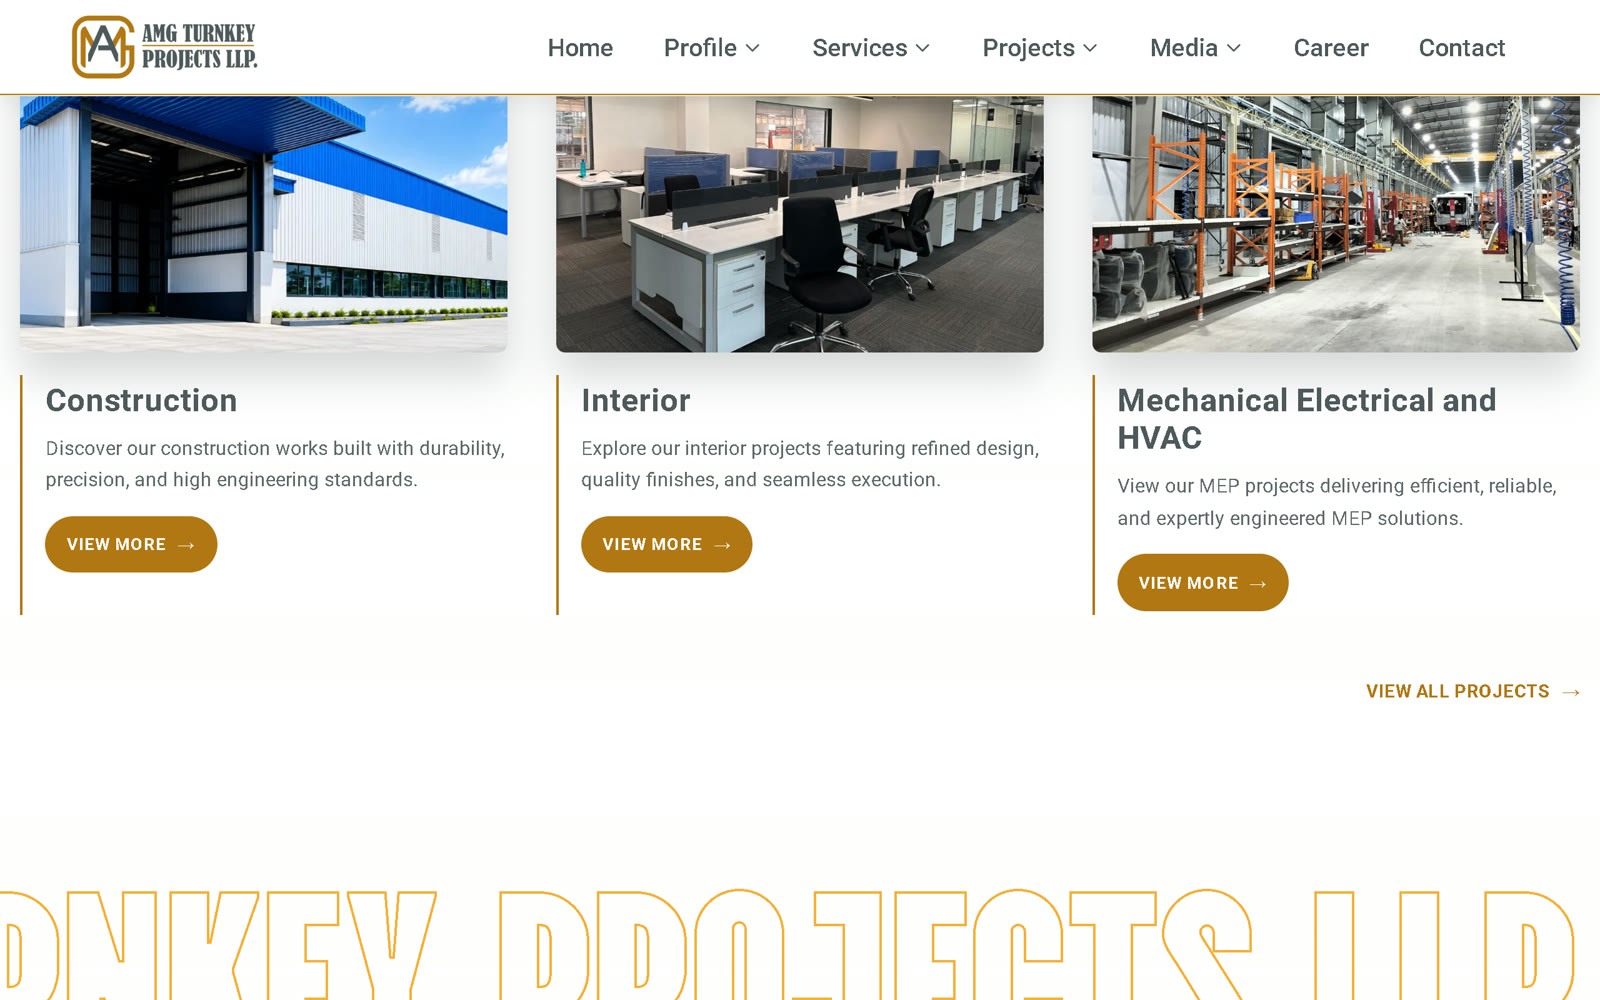
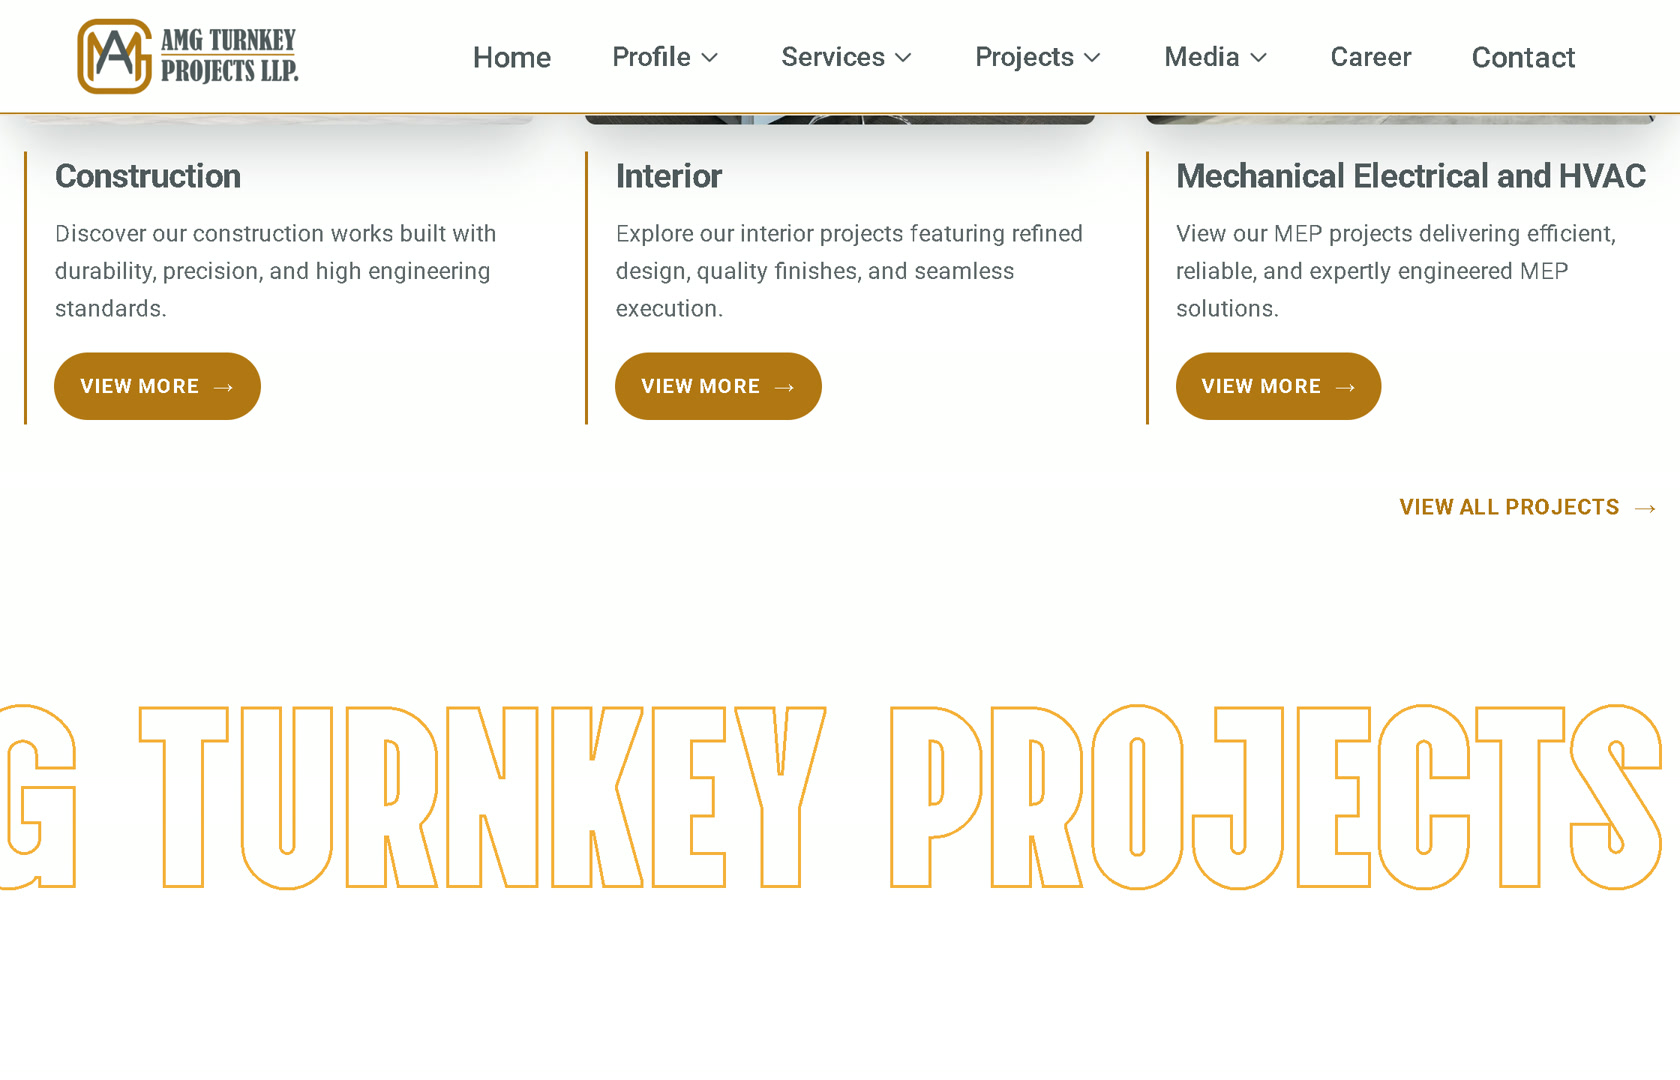
Make the site stills actually legible
The softness was not filtering and not source resolution. It was that each
still holds a whole page, and fitting both panels side by side had shrunk the
big one to 483 CSS px, so a 1280px website was being shown at about 38% of its
natural size. Nothing sampled at that reduction looks sharp.

Two changes, both about how much of the page each pixel has to carry. The
camera is solved from the BIG panel so it holds 62% of the frame whatever the
window is, which takes it from 483 to 674 CSS px; the small panel keeps its
place beside it with a guard so it never runs off the edge. And the stills are
captured at 1120 CSS rather than 1280, so there is less page to fit in the
same panel, and delivered at 1680 at a higher JPEG quality.

Together that takes the site from roughly 38% of natural size to about 61%.
Body copy on the Desi Totes hero is now readable in the panel, which it was
not before.

Panel geometry follows the new 1680x1080 stills, or the images would stretch.
Mipmapping and anisotropy stay on; they were not the cause but they are still
correct for a minified texture.

145 fps, zero frames over 32ms, assets 3.0 MB. Both panels still independently
clickable and no dead scroll at desktop, phone or reduced motion.

diff --git a/vitrine.js b/vitrine.js
@@ -67,22 +67,29 @@
   camera.position.set(0, 0, 8);
 
   const PANEL_W = 3.15;
-  const PANEL_H = PANEL_W * (1000 / 1600);
+  const PANEL_H = PANEL_W * (1080 / 1680);
 
   // Two slots, both always in shot. The big one holds the front of the room,
   // the small one stands beside it. Scroll trades the two sites between them.
-  const SMALL = 0.60;
-  const BOW_X = 0.62;          // how far apart they pass during the swap
+  const SMALL = 0.46;
+  const BOW_X = 0.55;          // how far apart they pass during the swap
   const SLOT = {
     wide: {
-      big:   { x: -0.92, y: 0.02, z: 0.55, s: 1,     rot: 0.05 },
-      small: { x: 1.42,  y: -0.10, z: -1.05, s: SMALL, rot: -0.30 },
+      big:   { x: -0.58, y: 0.02,  z: 0.55,  s: 1,     rot: 0.05 },
+      small: { x: 1.86,  y: -0.16, z: -1.05, s: SMALL, rot: -0.30 },
     },
     stacked: {
-      big:   { x: 0,    y: 0.66,  z: 0.55, s: 1,     rot: 0.03 },
-      small: { x: 0.30, y: -1.12, z: -1.05, s: SMALL, rot: -0.22 },
+      big:   { x: 0,    y: 0.58,  z: 0.55,  s: 1,     rot: 0.03 },
+      small: { x: 0.42, y: -1.28, z: -1.05, s: SMALL, rot: -0.22 },
     },
   };
+
+  // The share of the frame the BIG panel takes. This is the number that
+  // decides whether the site on it is legible: each still holds a whole
+  // 1280px page, so a small panel shows that page at well under half size and
+  // no amount of source resolution rescues it.
+  const BIG_FILL_WIDE = 0.62;
+  const BIG_FILL_STACKED = 0.94;
 
   const loader = new THREE.TextureLoader();
   const load = (url) => new Promise((res, rej) => loader.load(url, res, undefined, rej));
@@ -152,7 +159,15 @@
     PANELS.forEach((p) => {
       [[p.texA, p.faceA], [p.texB, p.faceB]].forEach(([t, m]) => {
         t.colorSpace = THREE.SRGBColorSpace;
+        // The stills are 1600px and land around 1000 device pixels, so they
+        // are minified. Without mipmaps that undersamples the source and the
+        // result reads as soft and noisy however sharp the original is.
+        // Trilinear plus anisotropy is what makes a shrunk texture stay crisp.
+        t.generateMipmaps = true;
+        t.minFilter = THREE.LinearMipmapLinearFilter;
+        t.magFilter = THREE.LinearFilter;
         t.anisotropy = renderer.capabilities.getMaxAnisotropy();
+        t.needsUpdate = true;
         m.material.map = t;
         m.material.needsUpdate = true;
       });
@@ -205,26 +220,25 @@
     camera.aspect = W / H;
     stacked = innerWidth <= 900;
 
-    // Solve the distance so BOTH slots stay in shot, since the whole point is
-    // that you can see the two sites at once. Fitting only the focused one is
-    // what left the smaller site hiding behind the bigger one.
+    // Solve the distance from the BIG panel, so it holds a fixed and generous
+    // share of the frame whatever the window is. Fitting the whole
+    // arrangement instead made the primary panel small enough that the site on
+    // it stopped being readable, which is what reads as blur.
     const S = stacked ? SLOT.stacked : SLOT.wide;
     const t = Math.tan((camera.fov * Math.PI) / 180 / 2);
-    const FILL = stacked ? 0.94 : 0.90;
+    const FILL = stacked ? BIG_FILL_STACKED : BIG_FILL_WIDE;
 
-    const halfW = Math.max(
-      Math.abs(S.big.x) + (PANEL_W * S.big.s) / 2,
-      Math.abs(S.small.x) + (PANEL_W * S.small.s) / 2,
-      // the widest point of the swap, or they clip as they pass
-      Math.abs(S.small.x) + BOW_X + (PANEL_W * 0.8) / 2,
-    );
+    const forW = (PANEL_W / 2) / FILL / (t * camera.aspect);
+    // guards, so nothing is cropped vertically or lost off the right edge
     const halfH = Math.max(
       Math.abs(S.big.y) + (PANEL_H * S.big.s) / 2,
       Math.abs(S.small.y) + (PANEL_H * S.small.s) / 2,
     );
-    const forW = halfW / FILL / (t * camera.aspect);
-    const forH = (halfH + 0.14) / FILL / t;
-    camera.position.z = Math.max(forW, forH) + S.big.z;
+    const forH = (halfH + 0.14) / t;
+    const edge = Math.abs(S.small.x) + (PANEL_W * S.small.s) / 2;
+    const forEdge = edge / 0.99 / (t * camera.aspect);
+
+    camera.position.z = Math.max(forW, forH, forEdge) + S.big.z;
     camera.updateProjectionMatrix();
   }
 

diff --git a/index.html b/index.html
@@ -56,7 +56,7 @@
              data-panel-b="assets/work/desi-2.jpg"
              data-panel-name="Desi Totes" data-panel-host="desitotes.com"
              data-panel-rot="-0.26">
-            <img src="assets/work/desi-1.jpg" alt="The Desi Totes shop: the Carry It Desi Style hero, with a black canvas hobo tote" width="1600" height="1000">
+            <img src="assets/work/desi-1.jpg" alt="The Desi Totes shop: the Carry It Desi Style hero, with a black canvas hobo tote" width="1680" height="1080">
             <span class="panel__go">Open desitotes.com</span>
           </a>
 
@@ -66,7 +66,7 @@
              data-panel-b="assets/work/amg-2.jpg"
              data-panel-name="AMG Turnkey Projects" data-panel-host="amgprojectsllp.com"
              data-panel-rot="0.26">
-            <img src="assets/work/amg-1.jpg" alt="The AMG Turnkey Projects site: the Where Quality Meets Swiftness hero" width="1600" height="1000">
+            <img src="assets/work/amg-1.jpg" alt="The AMG Turnkey Projects site: the Where Quality Meets Swiftness hero" width="1680" height="1080">
             <span class="panel__go">Open amgprojectsllp.com</span>
           </a>
 
